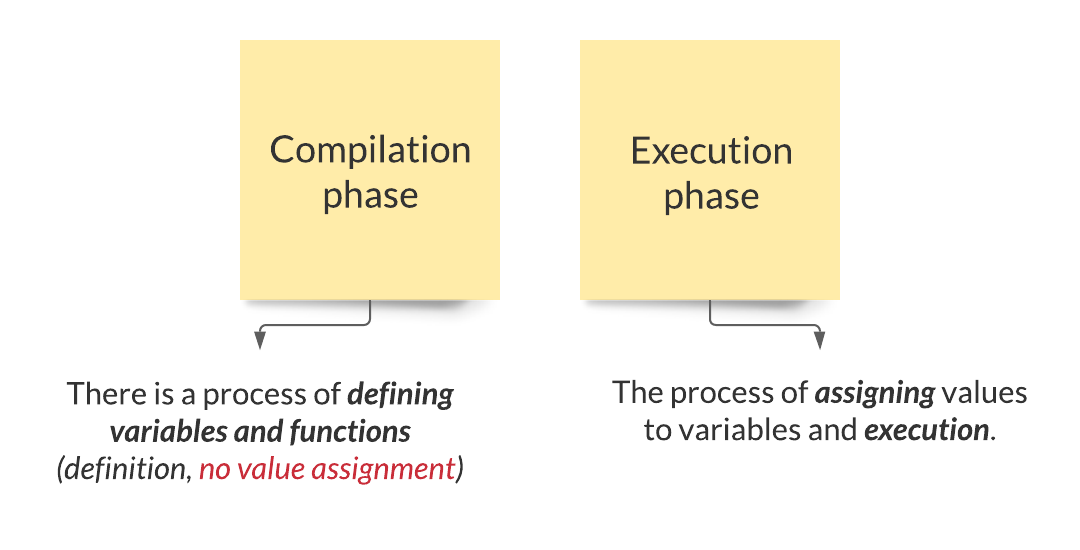
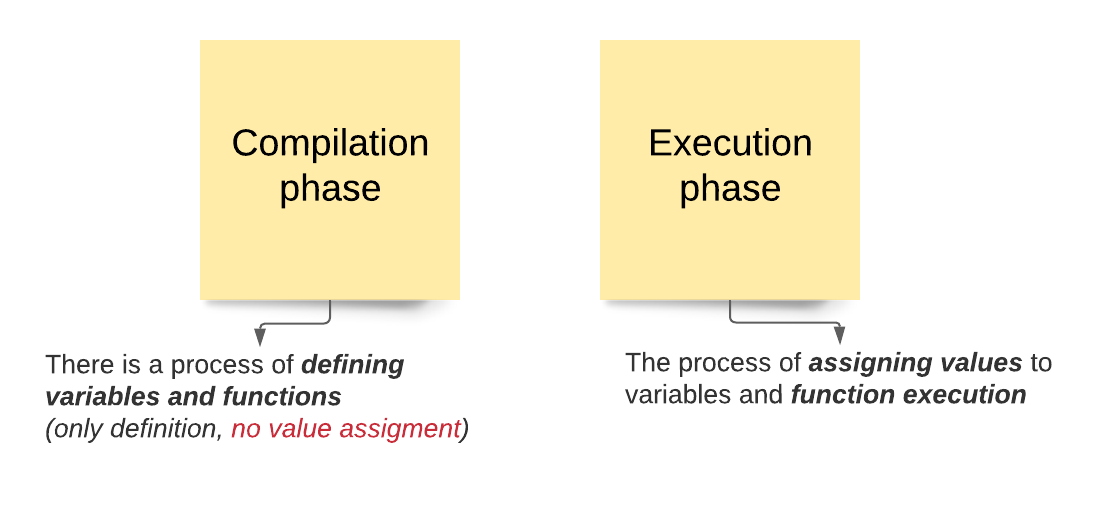
fix #jsphases

diff --git a/index.html b/index.html
@@ -4,7 +4,7 @@
   <meta charset="utf-8">
   <meta name="viewport" content="width=device-width, initial-scale=1.0, maximum-scale=1.0, user-scalable=no">
 
-  <title>reveal.js</title>
+  <title>Js in brief</title>
 
   <link rel="stylesheet" href="dist/reveal.css">
   <link rel="stylesheet" href="dist/theme/league.css" id="theme">
@@ -111,9 +111,9 @@
 foo();
 
 function foo() {
-console.log(a);
+  console.log(a);
 
-var a = 2;
+  var a = 2;
 }
 
 // 1. Compilation phase:
@@ -130,7 +130,7 @@ foo       a               variable
 * 3. Assigning value "2" to the "var a" -> var a = 2;
 *
 * Notice:
-* 1. foo () is not accidentally written on the first line.
+* 1. foo() is not accidentally written on the first line.
 * This is to show you that the first phase ignores
 * any executions & assigning.
 * 2. We got "undefined" because we called console.log(a)
@@ -141,8 +141,8 @@ foo       a               variable
 foo();
 
 function foo() {
-var a = 2;
-console.log( a );
+  var a = 2;
+  console.log( a );
 }
 // 1. Compilation phase:
 Scope     declaration     value
@@ -161,22 +161,18 @@ foo       a               variable
       </section>
       <section>
         <p>#2 Simple Example:</p>
-        <pre><code class="hljs" data-trim data-line-numbers="|17-24|26-32|34-49"><script type="text/template">
+        <pre><code class="hljs" data-trim data-line-numbers="|13-21|23-31"><script type="text/template">
 var i = 1;
 
 function foo(a) {
-var biz = a + (i++);
+  var biz = a + (i++);
 
-function baz() {
-return biz;
+  function baz() {
+    return biz;
+  }
 }
 
-return baz;
-}
-
-foo(2)();
-foo(2)();
-foo(2)();
+foo(2)(); // => 4
 
 // 1. Compilation phase:
 Scope     declaration     value
@@ -184,54 +180,41 @@ Scope     declaration     value
 global    i               variable
 global    foo             function
 
+foo       a               variable
 foo       biz             variable
 foo       baz             function
 
 // 2. Execution phase:
 /**
 * 1. Assigning value to the "var i" // var i = 1;
-* 2. Execution foo (2) // return the value 3;
-* 3. Execution foo (2) // return the value 4;
-* 4. Execution foo (2) // return the value 5;
+* 2. Execution foo(2) // return the value 3;
+*   2.1. Assigning value to the "var a" // var a = 2;
+*   2.2. Assigning value to the "var i" // var i = 1 + 1;
+*   2.3. Assigning value to the "var biz" // var biz = 2 + 2;
+* 3. Execution baz() // return the value 4;
 */
-
-/**
-* Good to know:
-* If we write the call of the function "bar"
-* into a variable "bar", further execution of bar()
-* will return the result of the first execution of this function.
-*
-* This is because in the second "Execution phase"
-* the function was
-* execute and the result was record to the variable "bar",
-* and bar() simply return the result of the
-* already executed function.
-*/
-var bar = foo(2)
-bar() //3
-bar() //3
-bar() //3
 					</script></code></pre>
       </section>
       <section class="ld-txt-md">
         <h2>Summary</h2>
-        <p>JavaScript code is processed by the engine of this language in
-          <span class="ld-txt-highlight">2 phases</span>:</p>
-        <ul>
-          <li>
-            <div><span class="ld-txt-highlight">Compilation phase</span>&nbsp;&mdash;&nbsp;
+
+        <div class="ld-txt-left">
+          <p>JavaScript code is processed by the engine of this language in
+            <span class="ld-txt-highlight">2 phases</span>:</p>
+          <ol>
+            <li>
+              <span class="ld-txt-highlight">Compilation phase</span>&nbsp;&mdash;&nbsp;
               there is a process of defining variables and functions <br>
               (only definition, <span class="ld-txt-highlight-secondary">no value assignment!</span>);
-            </div>
-            <em>P.S.&nbsp;&mdash;&nbsp;this process is also called
-              <span class="ld-txt-highlight-secondary">hoisting</span></em>
-          </li>
-          <li>
-            <span class="ld-txt-highlight">Execution phase</span>&nbsp;&mdash;&nbsp;
-            he process of <span class="ld-txt-highlight-secondary">assigning</span> values to
-            variables and <span class="ld-txt-highlight-secondary">execution</span>.
-          </li>
-        </ul>
+            </li>
+            <li>
+              <span class="ld-txt-highlight">Execution phase</span>&nbsp;&mdash;&nbsp;
+              the process of <span class="ld-txt-highlight-secondary">assigning</span> values to
+              variables and <span class="ld-txt-highlight-secondary">function execution</span>.
+            </li>
+          </ol>
+        </div>
+
         <div class="ld-list">
           <span class="ld-list__title">Useful materials:</span>
           <a
@@ -256,7 +239,7 @@ bar() //3
       </section>
       <section>
         <p><em>P.S. If you declare a local variable or function with the
-          same name as a global variable, you effectively hide the global variable:</em></p>
+          same name as a global variable, you effectively ignore the global variable:</em></p>
         <pre><code class="hljs" data-trim data-line-numbers>
           // Declare a global variable.
           var scope = "global";
@@ -370,7 +353,8 @@ bar() //3
           */
         </script>
         </code></pre>
-        <p><em><small>So, in this example when we put a function inside another function, then we create nested scope. <br>
+        <p><em><small>So, in this example when we put a function inside another function, then we create nested scope.
+          <br>
           In other words&nbsp;&mdash;&nbsp;the child function has access to the parent variables.</small></em></p>
       </section>
       <section class="ld-txt-md">
@@ -378,7 +362,8 @@ bar() //3
         <ol>
           <li>Scope is visibility and lifetime of variables, parameters, and functions.</li>
           <li>
-            Variable Scope can be <span class="ld-txt-highlight">Local</span> and <span class="ld-txt-highlight">Global</span>:
+            Variable Scope can be <span class="ld-txt-highlight">Local</span> and <span
+            class="ld-txt-highlight">Global</span>:
             <ul>
               <li>
                 <div><span class="ld-txt-highlight">Global Scope</span> have
